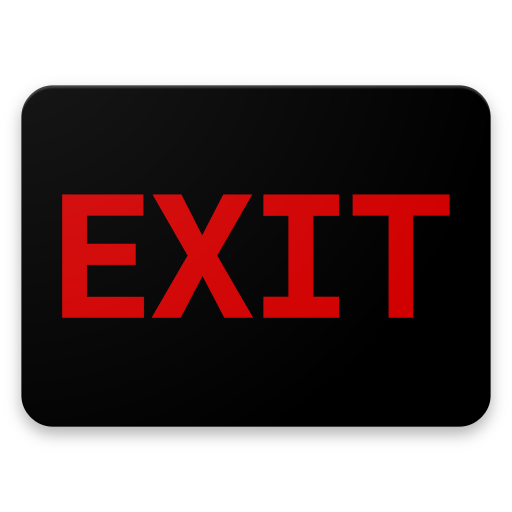
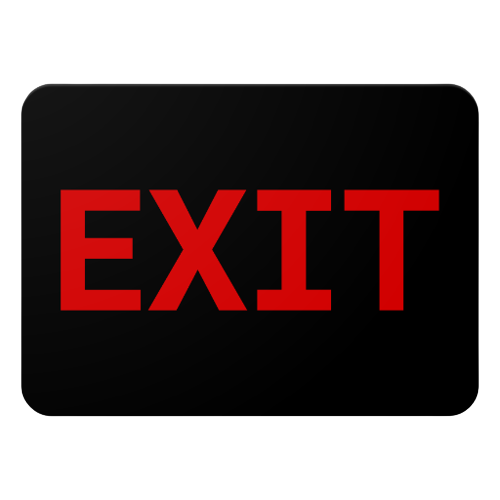
:lipstick: Style: Waiting UI 수정

Changed region(s): [[0.03, 0.18, 0.99, 0.87]]

diff --git a/src/pages/WaitingRoom/PlayerList/PlayList.style.js b/src/pages/WaitingRoom/PlayerList/PlayList.style.js
@@ -13,6 +13,9 @@ export const Total = styled.div`
   display: flex;
   flex-direction: column;
   margin-left: 200px;
+  margin-bottom: 80px;
+  background-color: rgba(255, 255, 255, 0.2);
+  border-radius: ${({ theme }) => theme.borderRadius.s};
 `;
 export const Square = styled.div`
   /* height: 100vh;  */
@@ -20,12 +23,12 @@ export const Square = styled.div`
   grid-template-rows: 1fr 1fr 1fr;
   grid-template-columns: 1fr 1fr;
   column-gap: 50px;
-  row-gap: 30px;
+  row-gap: 0px;
   padding: 20px;
 `;
 
 export const Container = styled.div`
-  font-size: 20px;
+  font-size: 30px;
   font-weight: bold;
   text-align: center;
   justify-content: center;
@@ -36,7 +39,6 @@ export const ButtonSquare = styled.div`
   grid-template-rows: 1fr;
   grid-template-columns: 1fr 1fr;
   column-gap: 50px;
-  row-gap: 30px;
 
   padding: 20px;
 `;
@@ -68,11 +70,49 @@ export const DropButton = styled.button`
   }
 `;
 // 나가기버튼
-export const OutButton = styled.button``;
+export const OutButton = styled.button`
+  height: 100px;
+  margin-top: 20px;
+  background: white;
+  /* border: 1px solid #ff4742; */
+  border-radius: 6px;
+  box-shadow: rgba(0, 0, 0, 0.1) 1px 2px 4px;
+  box-sizing: border-box;
+  color: black;
+  cursor: pointer;
+  display: inline-block;
+  font-family: nunito, roboto, proxima-nova, 'proxima nova', sans-serif;
+  font-size: 50px;
+  font-weight: 800;
+  line-height: 16px;
+  min-height: 40px;
+  text-align: center;
+  text-rendering: geometricprecision;
+  text-transform: none;
+  user-select: none;
+  -webkit-user-select: none;
+  touch-action: manipulation;
+  vertical-align: middle;
+  &:hover,
+  &:active {
+    background: #ff4742;
+    color: #050801;
+    box-shadow:
+      0 0 5px #ff4742,
+      0 0 25px #ff4742,
+      0 0 50px #ff4742,
+      0 0 100px #ff4742;
+    -webkit-box-reflect: below 1px linear-gradient(transparent, #0005);
+  }
+
+  &:active {
+    opacity: 0.5;
+  }
+`;
 
 export const StartButton = styled.button`
-  height: 150px;
-  margin-top: 30px;
+  height: 100px;
+  margin-top: 20px;
   background: #ff4742;
   /* border: 1px solid #ff4742; */
   border-radius: 6px;
@@ -82,7 +122,7 @@ export const StartButton = styled.button`
   cursor: pointer;
   display: inline-block;
   font-family: nunito, roboto, proxima-nova, 'proxima nova', sans-serif;
-  font-size: 55px;
+  font-size: 50px;
   font-weight: 800;
   line-height: 16px;
   min-height: 40px;
@@ -163,5 +203,5 @@ export const StartButton = styled.button`
   }
 `; */
 export const Logo = styled.img`
-  height: 200px;
+  height: 20px;
 `;

diff --git a/src/pages/WaitingRoom/PlayerList/PlayerList.jsx b/src/pages/WaitingRoom/PlayerList/PlayerList.jsx
@@ -1,6 +1,7 @@
 import React, { useState, useEffect } from 'react';
 import * as S from 'pages/WaitingRoom/PlayerList/PlayList.style';
 import useModal from 'hooks/useModal';
+import UserInfo from 'components/userinfo/UserInfo';
 import axios from 'axios';
 function PlayerList() {
   const Items = ['병국', '석준', '정인', '채영', '종명', '종호'];
@@ -13,7 +14,7 @@ function PlayerList() {
   useEffect(() => {
     console.log(userIdx);
   });
-  const { openModal } = useModal();
+  const { openModal: openUserInfo } = useModal('UserInfo');
   const [myName, setmyName] = useState('');
 
   // 강퇴 버튼
@@ -62,21 +63,23 @@ function PlayerList() {
               border: '8px solid black',
               borderRadius: '30px',
               textalign: 'center',
+              opacity: '0.8',
             }}
           >
-            <div style={{ marginTop: '1rem' }} onClick={() => openModal(userIdx[index])}>
-              {item}
+            {/* () => openModal(userIdx[index]) */}
+            <div style={{ marginTop: '0.5rem' }} onClick={openUserInfo}>
+              {item} {item === Master && <S.Logo src={process.env.PUBLIC_URL + '/crown.png'} />}
             </div>
             {currentUsername == Master && item !== Master && (
-              <S.DropButton onClick={() => removeItem(item)}>강퇴</S.DropButton>
+              <S.DropButton style={{ marginBottom: '0.5rem' }} onClick={() => removeItem(item)}>
+                강퇴
+              </S.DropButton>
             )}
           </S.Container>
         ))}
       </S.Square>
       <S.ButtonSquare>
-        <S.OutButton onClick={roomOut}>
-          <S.Logo src={process.env.PUBLIC_URL + '/exit.png'} />
-        </S.OutButton>
+        <S.OutButton onClick={roomOut}>EXIT</S.OutButton>
         <S.StartButton onClick={gameStart}>START</S.StartButton>
       </S.ButtonSquare>
     </S.Total>
